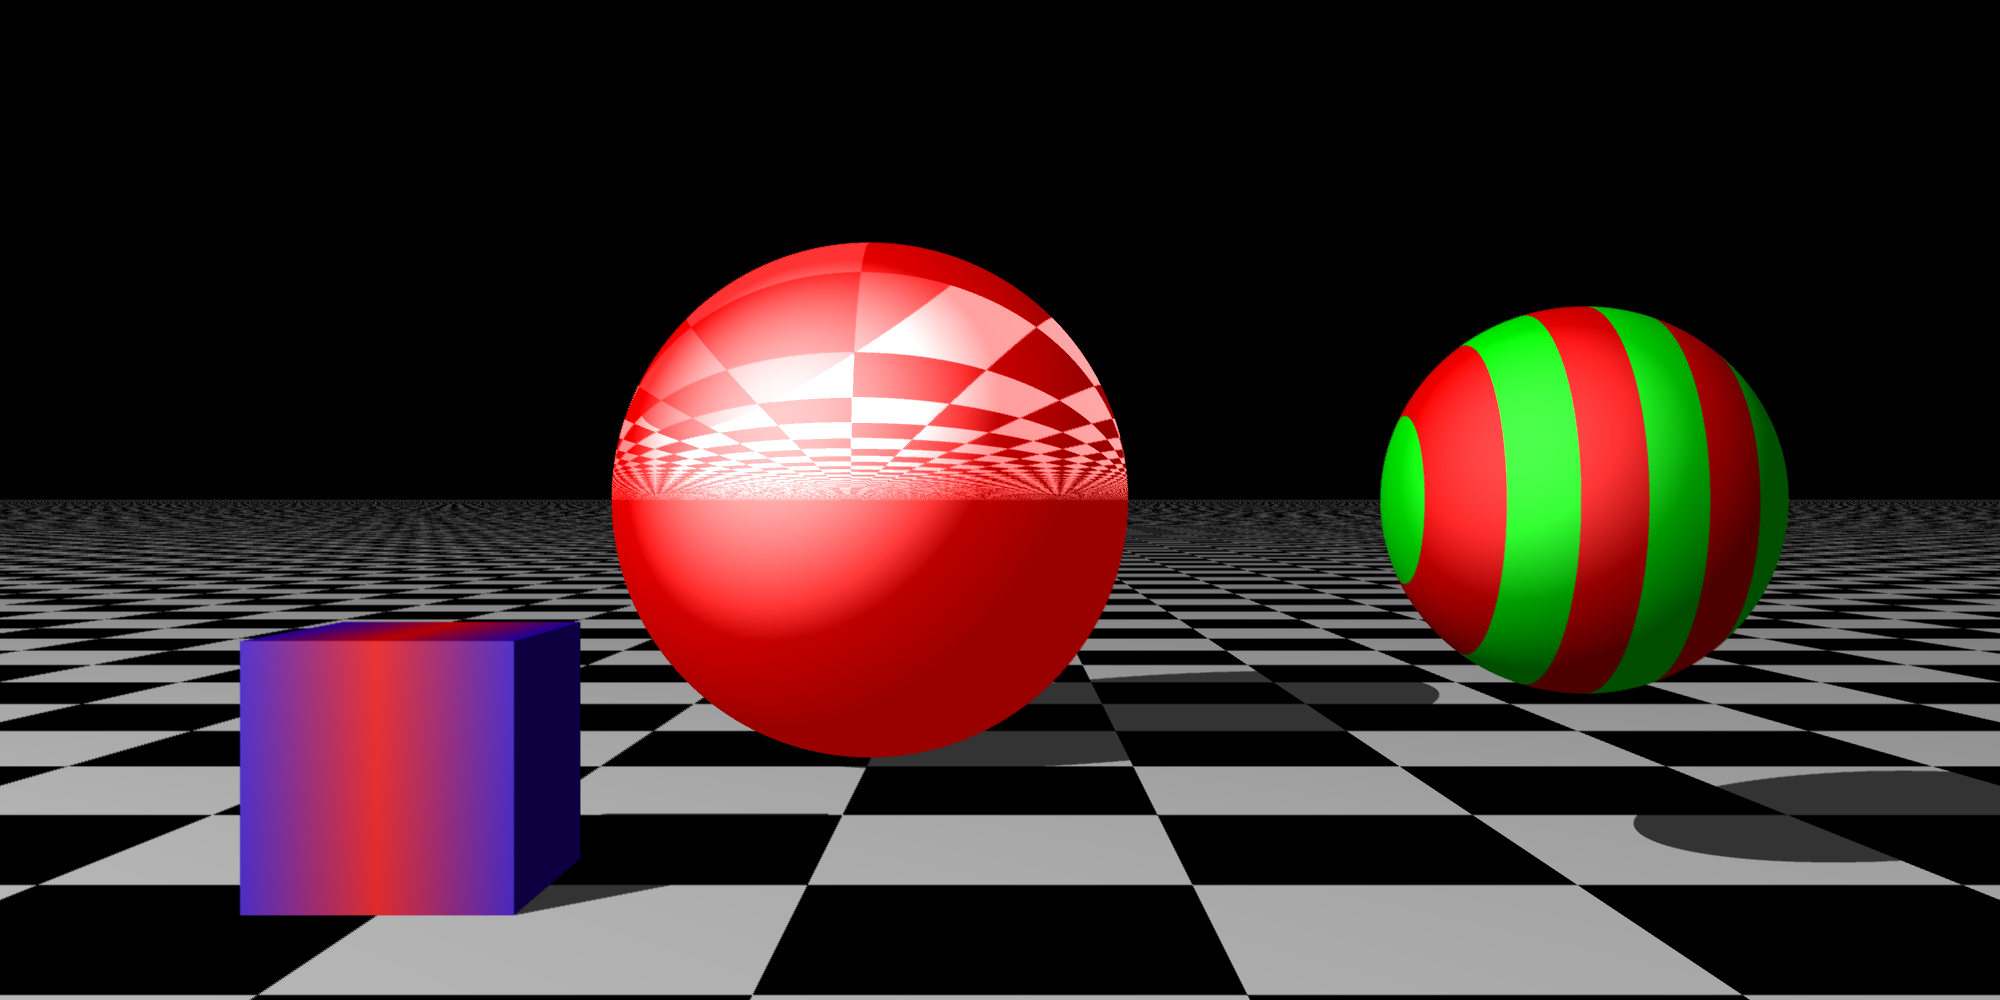
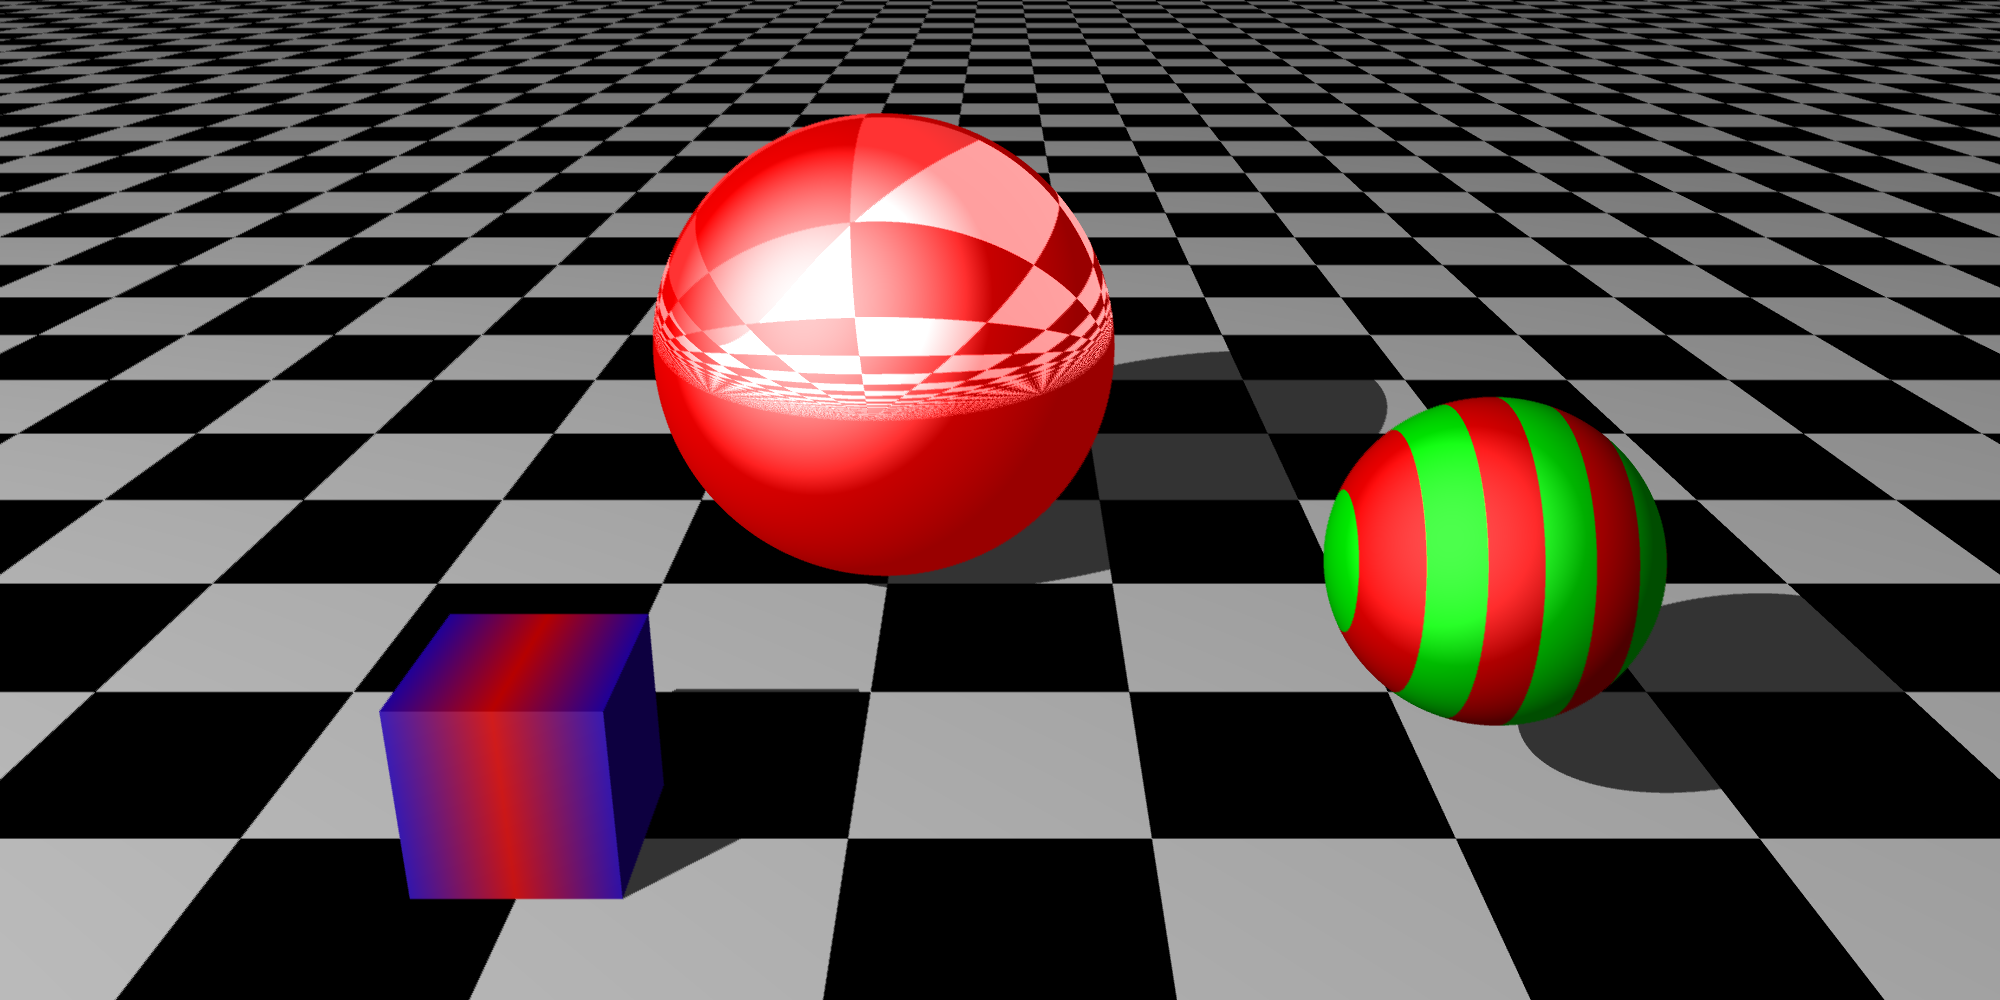
sped up program 4x by storing inverse transformations

diff --git a/application/src/main.cpp b/application/src/main.cpp
@@ -7,7 +7,7 @@
 #include "color/color.hpp"
 #include <SFML/Graphics.hpp> 
 
-int main() { 
+int main(int argc, char** argv) { 
 
     /* ----------- Spheres ------------*/
 
@@ -91,7 +91,7 @@ int main() {
         .set_horizontal_pixels(horizontal_pixels)
         .set_vertical_pixels(vertical_pixels)
         .set_field_of_view(M_PI/3)
-        .transform(xform::view_transform(geo::Point(0, 1, -5), geo::Point(0, 1, 0), geo::Vec(0, 1, 0)));
+        .transform(xform::view_transform(geo::Point(0, 3, -5), geo::Point(0, 1, 0), geo::Vec(0, 1, 0)));
 
     scene::World world;
     world
@@ -101,28 +101,43 @@ int main() {
     
     image::Canvas canvas = camera.render(world);
 
-    std::vector<uint8_t> frame_buffer = canvas.write_to_frame_buffer(); 
+    if (argc < 2) { 
 
-    sf::Image image; 
-    image.create(horizontal_pixels, vertical_pixels, frame_buffer.data());
+        std::vector<uint8_t> frame_buffer = canvas.write_to_frame_buffer(); 
 
-    sf::Texture texture; 
-    texture.loadFromImage(image);
+        sf::Image image; 
+        image.create(horizontal_pixels, vertical_pixels, frame_buffer.data());
 
-    sf::Sprite sprite(texture);
-    sf::RenderWindow window(sf::VideoMode(horizontal_pixels, vertical_pixels), "Ray Tracer Output");
+        sf::Texture texture; 
+        texture.loadFromImage(image);
 
-    while (window.isOpen()) 
-    { 
-        sf::Event event; 
-        while (window.pollEvent(event)) 
+        sf::Sprite sprite(texture);
+        sf::RenderWindow window(sf::VideoMode(horizontal_pixels, vertical_pixels), "Ray Tracer Output");
+
+        while (window.isOpen()) 
         { 
-            if (event.type == sf::Event::Closed) 
-                window.close(); 
+            sf::Event event; 
+            while (window.pollEvent(event)) 
+            { 
+                if (event.type == sf::Event::Closed) 
+                    window.close(); 
+            }
+            window.clear(); 
+            window.draw(sprite);
+            window.display(); 
         }
-        window.clear(); 
-        window.draw(sprite);
-        window.display(); 
+    } 
+    else 
+    { 
+        if (std::string(argv[1]) == "-ppm") 
+        { 
+            canvas.write_to_ppm(); 
+        } 
+        else 
+        {
+            std::clog << "Usage: ./ray or ./ray -ppm to write a ppm to stdout\n";
+        }
+        
     }
 
 

diff --git a/engine/include/xform/matrices.hpp b/engine/include/xform/matrices.hpp
@@ -22,7 +22,8 @@ namespace xform
      *  This results in the matrix operations being very fast with a downside of less readable code */
 
     private: 
-        std::array<double, N * N> m_data; 
+        /*std::array<double, N * N> m_data; */
+        std::array<double, N * N> m_data __attribute__((aligned(32)));
 
     public: 
         Matrix(); 
@@ -33,6 +34,7 @@ namespace xform
         double get(int, int) const;  
         void set(double, int, int); 
 
+        friend geo::Point inline operator*(const xform::Matrix<4>& matrix, const geo::Point& point); 
     };
 
     template <std::size_t N> 
@@ -120,13 +122,13 @@ xform::Matrix<N>& xform::Matrix<N>::operator=(const Matrix<N>& other)
 }
     
 template <std::size_t N> 
-double inline xform::Matrix<N>::get(int row, int col) const 
+inline double xform::Matrix<N>::get(int row, int col) const 
 { 
     return m_data[row * N + col];
 }
 
 template <std::size_t N> 
-void inline xform::Matrix<N>::set(double value, int row, int col) 
+inline void xform::Matrix<N>::set(double value, int row, int col) 
 { 
     m_data[row * N + col] = value;
 }
@@ -322,7 +324,7 @@ std::ostream& xform::operator<<(std::ostream& out, const xform::Matrix<N>& matri
 //Point and vec interaction 
 
 geo::Point inline xform::operator*(const xform::Matrix<4>& matrix, const geo::Point& point) 
-{ 
+{
     double x_new = matrix.get(0, 0) * point.x + matrix.get(0, 1) * point.y + matrix.get(0,2) * point.z + matrix.get(0,3);
     double y_new = matrix.get(1, 0) * point.x + matrix.get(1, 1) * point.y + matrix.get(1, 2) * point.z + matrix.get(1, 3);
     double z_new = matrix.get(2, 0) * point.x + matrix.get(2, 1) * point.y + matrix.get(2, 2) * point.z + matrix.get(2, 3);
@@ -448,6 +450,8 @@ bool is_invertable(const xform::Matrix<N>& matrix)
 { 
     return determinant(matrix) != 0;
 }
+
+
 
 
 #endif

diff --git a/engine/src/scene/hittables/sphere.cpp b/engine/src/scene/hittables/sphere.cpp
@@ -14,7 +14,8 @@ vector<geo::Intersection> Sphere::intersect(const geo::Ray& ray) const
     
     //transform the ray instead of the sphere, with the type of transformation matrix being held in the 
     //hittable object. This means we have to take the inverse to give the correct transformation to the ray  
-    geo::Ray transformed_ray = transform_ray(ray, inverse(m_transformation)); 
+    /*geo::Ray transformed_ray = transform_ray(ray, inverse(m_transformation)); */
+    geo::Ray transformed_ray = transform_ray(ray, m_inverse_transformation); 
     //calculates whether a ray hits a sphere by calculating the discriminant 
     geo::Vec sphere_to_ray = transformed_ray.origin - m_origin; 
 
@@ -44,8 +45,8 @@ geo::Vec Sphere::normal_at(const geo::Point& world_point) const
     //Returns the normal vector at a point. 
     //Because the sphere is transformed, we must make calculations to compute the normal at the 
     //transformed state. 
-    geo::Point object_point = xform::inverse(m_transformation) * world_point; 
+    geo::Point object_point = m_inverse_transformation * world_point; 
     geo::Vec object_normal = object_point - geo::Point(0, 0, 0);
-    geo::Vec world_normal = xform::transpose(xform::inverse(m_transformation)) * object_normal; 
+    geo::Vec world_normal = xform::transpose(m_inverse_transformation) * object_normal; 
     return unit_vector(world_normal);
 }

diff --git a/engine/src/scene/hittables/cube.cpp b/engine/src/scene/hittables/cube.cpp
@@ -11,7 +11,7 @@ Cube::Cube() : m_origin(geo::Point(0, 0, 0)), m_side_length(2.0) {}
 
 vector<geo::Intersection> Cube::intersect(const geo::Ray& ray) const 
 { 
-    geo::Ray transformed_ray = transform_ray(ray, inverse(m_transformation)); 
+    geo::Ray transformed_ray = transform_ray(ray, m_inverse_transformation); 
 
     // Initialize t_min and t_max for intersection points
     double t_min = -std::numeric_limits<double>::infinity();
@@ -96,7 +96,7 @@ vector<geo::Intersection> Cube::intersect(const geo::Ray& ray) const
 
 geo::Vec Cube::normal_at(const geo::Point& world_point) const 
 {
-    geo::Point object_point = xform::inverse(m_transformation) * world_point;
+    geo::Point object_point = m_inverse_transformation * world_point;
     geo::Vec object_normal;
 
     // Determine which face of the cube was hit and set the normal
@@ -126,7 +126,7 @@ geo::Vec Cube::normal_at(const geo::Point& world_point) const
     }
 
     // Transform the normal back to world coordinates
-    geo::Vec world_normal = xform::transpose(xform::inverse(m_transformation)) * object_normal;
+    geo::Vec world_normal = xform::transpose(m_inverse_transformation) * object_normal;
     return unit_vector(world_normal);  // Normalize the result
 }
 

diff --git a/engine/src/scene/camera.cpp b/engine/src/scene/camera.cpp
@@ -40,9 +40,8 @@ geo::Ray Camera::ray_to_pixel(double pixel_x, double  pixel_y) const
     double world_y = m_half_height - y_offset; 
 
     // The ray is transformed based on transformations made on the camera 
-    xform::Matrix inverse_mat = xform::inverse(m_transformation);
-    geo::Point pixel =  inverse_mat * geo::Point(world_x, world_y, -1);
-    geo::Point origin = inverse_mat * geo::Point(0, 0, 0);
+    geo::Point pixel =  m_inverse_transformation * geo::Point(world_x, world_y, -1);
+    geo::Point origin = m_inverse_transformation * geo::Point(0, 0, 0);
     geo::Vec direction = unit_vector(pixel - origin);
 
     return geo::Ray(origin, direction);
@@ -152,6 +151,7 @@ Camera& Camera::set_field_of_view(double degrees)
 Camera& Camera::transform(const xform::Matrix<4>& new_transformation) 
 { 
     m_transformation = m_transformation * new_transformation;
+    m_inverse_transformation = xform::inverse(m_transformation);
     return *this;
 }
 

diff --git a/engine/src/color/patterns.cpp b/engine/src/color/patterns.cpp
@@ -13,13 +13,14 @@ using namespace color;
 Pattern& Pattern::transform(const xform::Matrix<4>& transformation) 
 { 
     m_transformation = m_transformation * transformation; 
+    m_inverse_transformation = xform::inverse(m_transformation);
     return *this; 
 }
 
 RGB Pattern::color_at_object(const scene::Hittable* object, const geo::Point& world_point) const 
 { 
-    geo::Point object_point = xform::inverse(object->get_transformation()) * world_point;
-    geo::Point pattern_point = xform::inverse(m_transformation) * object_point;
+    geo::Point object_point = object->get_inverse_transformation() * world_point;
+    geo::Point pattern_point = m_inverse_transformation * object_point;
 
     return color_at(pattern_point);
 }

diff --git a/engine/src/scene/hittables/hittable.cpp b/engine/src/scene/hittables/hittable.cpp
@@ -39,6 +39,7 @@ Hittable& Hittable::set_material(const scene::Material& mat)
 Hittable& Hittable::transform(const xform::Matrix<4>& new_transformation) 
 { 
     m_transformation = m_transformation * new_transformation;
+    m_inverse_transformation = xform::inverse(m_transformation);
     return *this; 
 }
 
@@ -69,6 +70,10 @@ Hittable& Hittable::set_transparency(double trans)
 xform::Matrix<4> Hittable::get_transformation() const 
 { 
     return m_transformation; 
+}
+xform::Matrix<4> Hittable::get_inverse_transformation() const 
+{ 
+    return m_inverse_transformation; 
 }
 
 

diff --git a/engine/include/scene/hittable.hpp b/engine/include/scene/hittable.hpp
@@ -37,9 +37,11 @@ namespace scene
         Material material; 
 
         xform::Matrix<4> get_transformation() const; 
+        xform::Matrix<4> get_inverse_transformation() const; 
 
     protected:        
-        xform::Matrix<4> m_transformation; 
+        xform::Matrix<4> m_transformation = xform::identity(); 
+        xform::Matrix<4> m_inverse_transformation = xform::inverse(xform::identity()); 
         
     };
 

diff --git a/engine/src/scene/hittables/plane.cpp b/engine/src/scene/hittables/plane.cpp
@@ -10,7 +10,7 @@ using std::vector;
 
 vector<geo::Intersection> Plane::intersect(const geo::Ray& ray) const 
 { 
-    geo::Ray transformed_ray = transform_ray(ray, inverse(m_transformation));
+    geo::Ray transformed_ray = transform_ray(ray, m_inverse_transformation);
     if (std::abs(transformed_ray.direction.y) < utils::EPSILON)   //ray parellel with the plane 
         return {};
     

diff --git a/engine/include/scene/camera.hpp b/engine/include/scene/camera.hpp
@@ -35,6 +35,7 @@ namespace scene
         double m_half_width; 
         double m_half_height; 
         xform::Matrix<4> m_transformation = xform::identity(); 
+        xform::Matrix<4> m_inverse_transformation = xform::inverse(xform::identity());
 
         geo::Ray ray_to_pixel(double, double) const;
         color::RGB anti_alias(double, double, scene::World&) const; 

diff --git a/engine/include/color/pattern.hpp b/engine/include/color/pattern.hpp
@@ -33,6 +33,7 @@ namespace color
 
         RGB color1 = color::black(), color2 = color::white(); 
         xform::Matrix<4> m_transformation = xform::identity(); 
+        xform::Matrix<4> m_inverse_transformation = xform::inverse(xform::identity()); 
     };
 
     //DIfferent patterns will return a different color at a given point 

diff --git a/engine/src/geo/tuples.cpp b/engine/src/geo/tuples.cpp
@@ -11,7 +11,6 @@ The Vec is a direction in 3d space, while a Point is a coordinate in 3d space
 The Color holds an r, g, and b */ 
 
 
-
 /*-------------Vec-------------*/
 using geo::Vec; 
 using geo::Point; 
